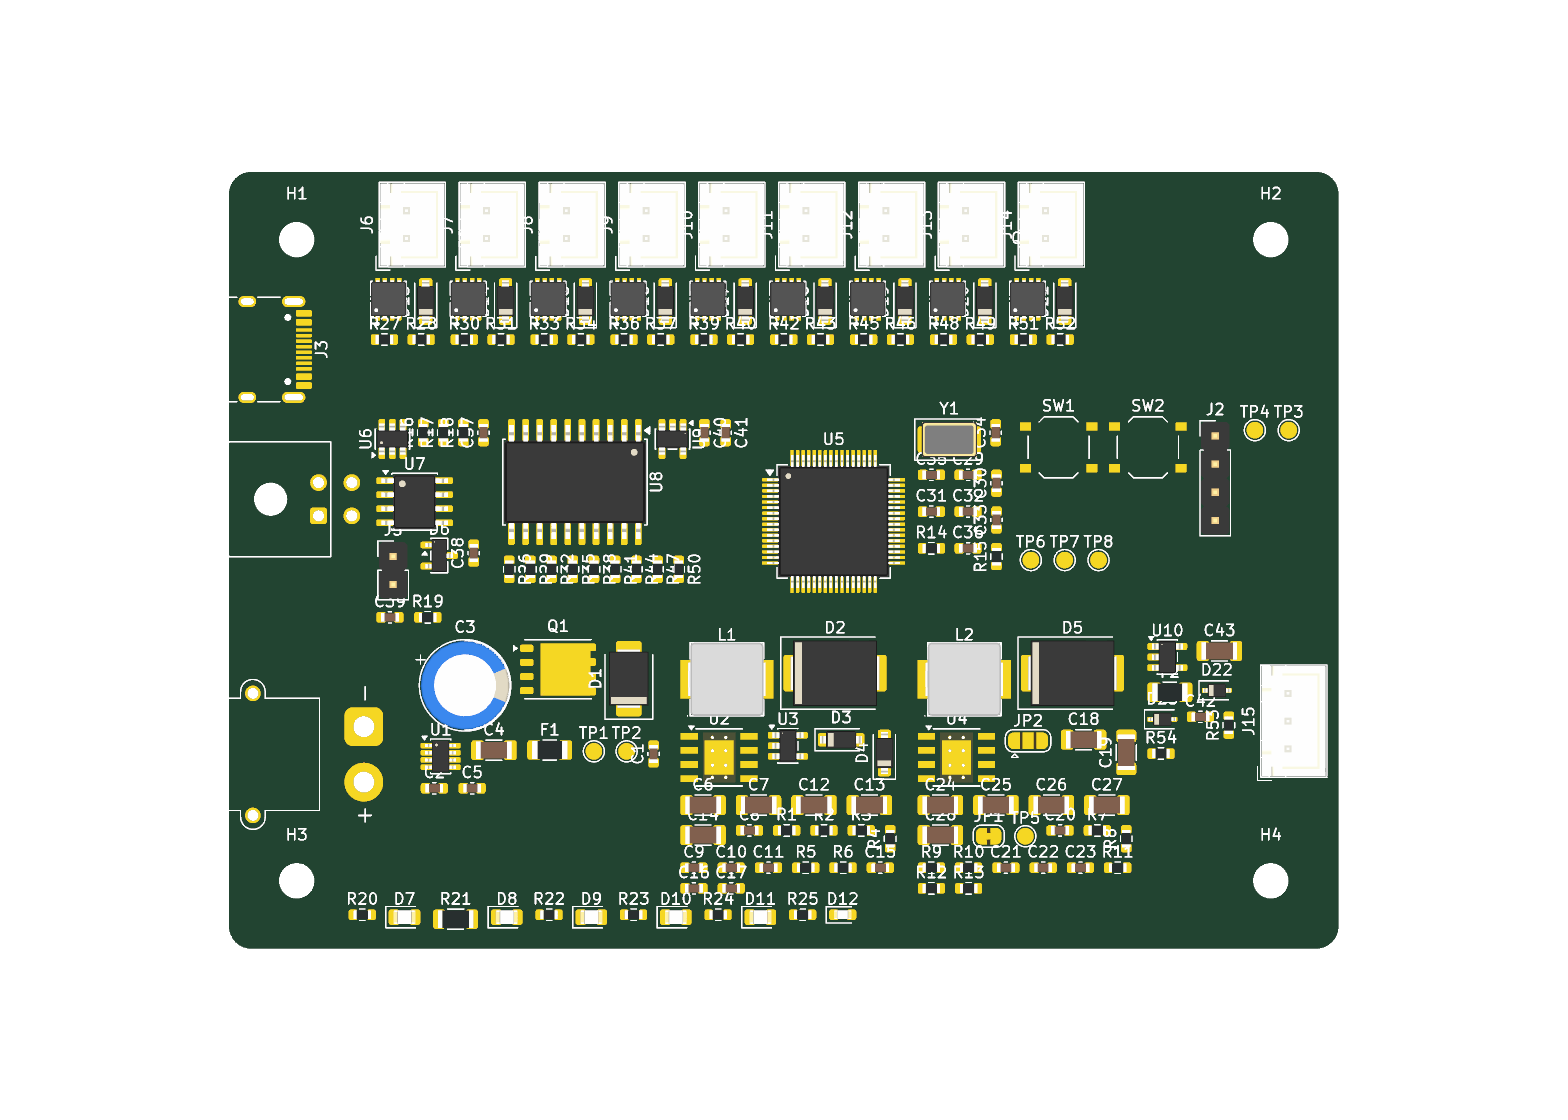
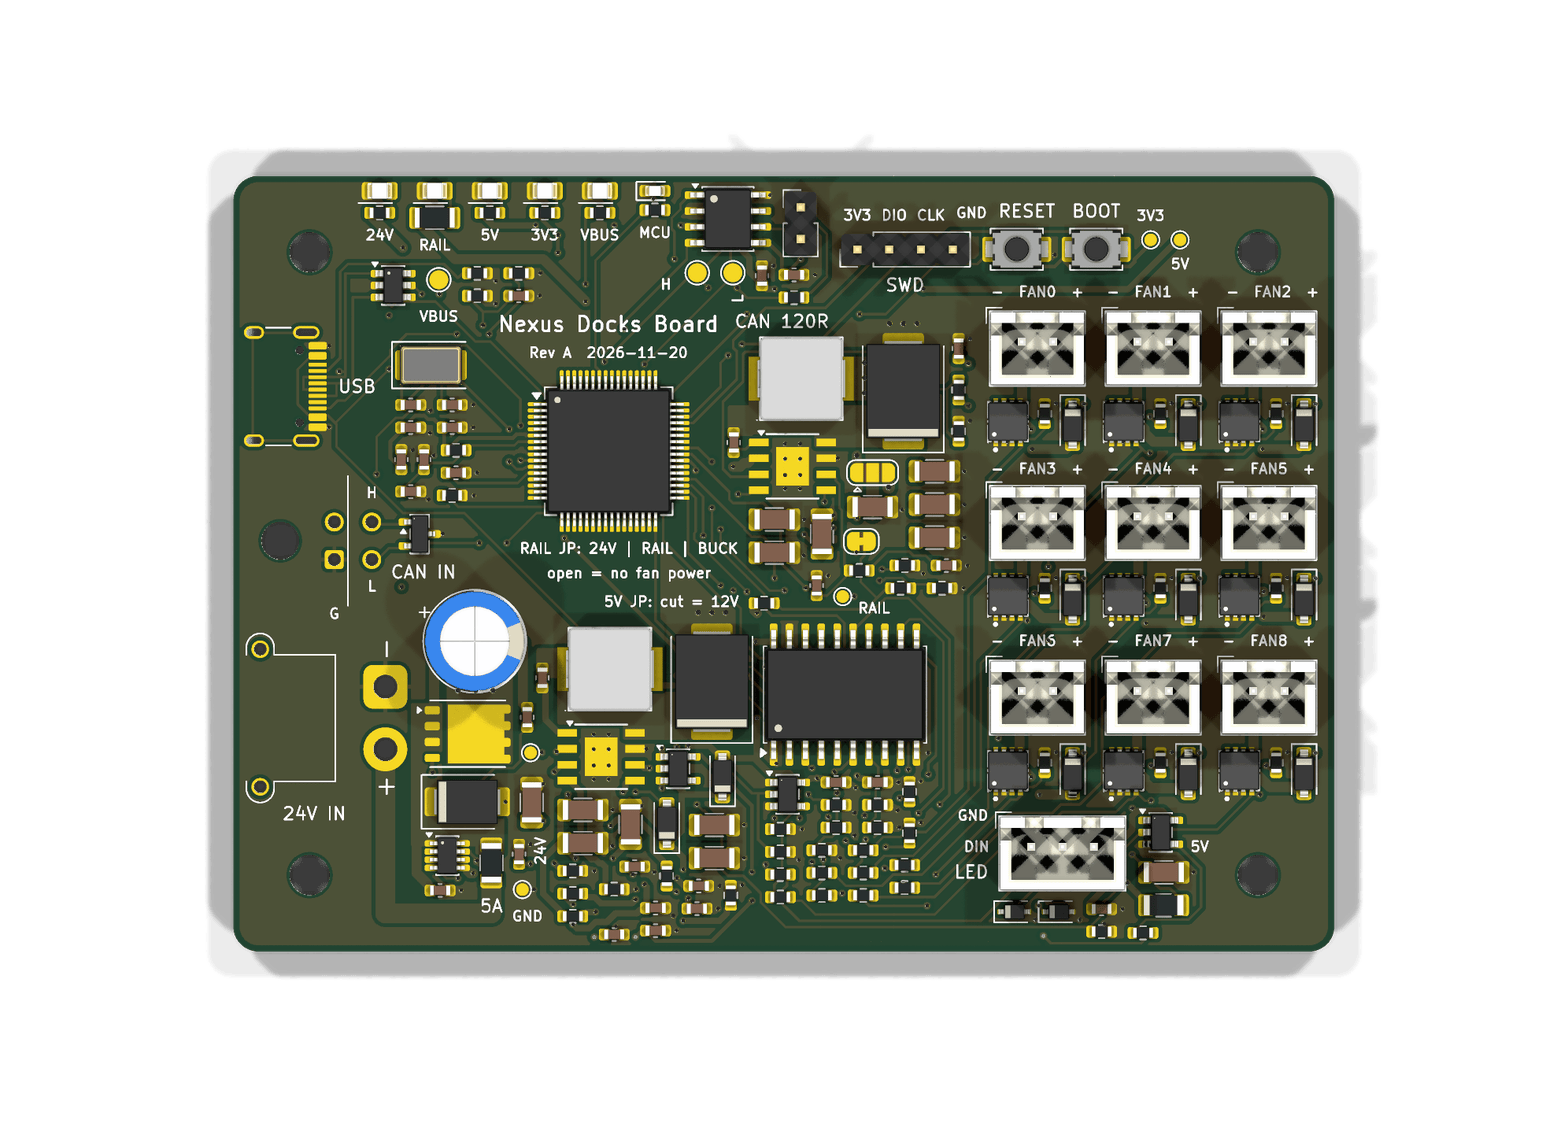
docs: update product page renders and specs
New Rev A renders, design v1.7, board dimensions and mounting, both
boards 4 layers, macro names and power polarity check in the safety
section, project status after F5/F6.

Claude-Session: https://claude.ai/code/session_01VsPyEYuVQYgTC3AocQhtLY

diff --git a/docs/index.html b/docs/index.html
@@ -286,7 +286,7 @@
       <article class="board">
         <figure>
           <img src="img/toolboard-3d-top.png" alt="3D render of the Nexus Tools Board, top side" loading="lazy">
-          <figcaption>Preliminary KiCad render — layout not final</figcaption>
+          <figcaption>KiCad render of the Rev A layout — not built or tested yet</figcaption>
         </figure>
         <div class="body">
           <span class="tag">Tools</span>
@@ -305,7 +305,7 @@
       <article class="board">
         <figure>
           <img src="img/dockboard-3d-top.png" alt="3D render of the Nexus Docks Board, top side" loading="lazy">
-          <figcaption>Preliminary KiCad render — layout not final</figcaption>
+          <figcaption>KiCad render of the Rev A layout — not built or tested yet</figcaption>
         </figure>
         <div class="body">
           <span class="tag">Docks</span>
@@ -334,7 +334,7 @@
       <div class="feat"><div class="ico">02 / SELF-TEST</div><h4>Proven at every start</h4><p>A voltage measurement on the heater rail checks at every startup that the cutoff actually switches.</p></div>
       <div class="feat"><div class="ico">03 / LEDS</div><h4>See what the MOSFET does</h4><p>Each heater channel has an LED that shows what the MOSFET is really doing, not what the software thinks it is doing.</p></div>
       <div class="feat"><div class="ico">04 / CLOGS</div><h4>Clog detection per tool</h4><p>Runout and motion input on every filament port. Use a simple D2F switch, or a motion sensor that notices a clogged nozzle or a slipping extruder.</p></div>
-      <div class="feat"><div class="ico">05 / CONFIG</div><h4>Simple Klipper setup</h4><p>Connect over USB-C or CAN, add a short config file per tool, and Klipper sees eight full hotends. Disable a tool by commenting out one line.</p></div>
+      <div class="feat"><div class="ico">05 / CONFIG</div><h4>Simple Klipper setup</h4><p>Connect over USB-C or CAN, and use the ready-made config and macros for YUDX: one block per tool, and Klipper sees eight full hotends. Disable a tool by commenting out its block.</p></div>
       <div class="feat"><div class="ico">06 / OPEN</div><h4>Fully open source</h4><p>KiCad files, BOM with LCSC numbers, production files for JLCPCB and the Klipper config are all in the repository.</p></div>
     </div>
 
@@ -371,10 +371,11 @@
       <p><strong>Mandatory:</strong></p>
       <ol>
         <li>Klipper's <code>verify_heater</code> active, with sensible <code>max_temp</code> values.</li>
-        <li>Keep the cutoff startup self-test enabled. Do not print if it fails.</li>
-        <li>Run the commissioning macro after every (re)wiring: it checks that each heater heats the correct thermistor.</li>
+        <li>Keep the cutoff startup self-test enabled (<code>NEXUS_SELFTEST</code>, runs at every Klipper start). Do not print if it fails; call <code>NEXUS_PRINT_START</code> in your <code>PRINT_START</code> so a print cannot start without it.</li>
+        <li>Run the commissioning macro <code>NEXUS_COMMISSION</code> after every (re)wiring: it checks that each heater heats the correct thermistor.</li>
         <li>Never print unattended until the whole setup has proven itself over multiple prints.</li>
         <li>One PSU, or PSUs with a common negative.</li>
+        <li>Check the power cable polarity before you plug in: on the board connector (XT60 on the Tools Board, XT30 on the Docks Board) <strong>+ is pin 2</strong>, marked <strong>+</strong> on the silkscreen. Wire your plug to match.</li>
       </ol>
       <p style="margin-bottom:0">The design is provided "as is", without warranty of any kind. <strong>You build and use it entirely at your own risk.</strong> See the disclaimers in the licenses.</p>
     </div>
@@ -383,9 +384,9 @@
 
 <section id="specs" class="alt">
   <div class="wrap">
-    <div class="eyebrow">Draft specifications · design v1.6</div>
+    <div class="eyebrow">Draft specifications · design v1.7</div>
     <h2>Specifications</h2>
-    <p class="sub">Preliminary. Dimensions and mounting holes are not fixed yet.</p>
+    <p class="sub">Preliminary: the Rev A layout is done, but no board has been built or tested yet.</p>
 
     <details open>
       <summary>General</summary>
@@ -393,8 +394,9 @@
         <tr><td>Microcontroller</td><td>STM32G0B1RBT6 (Arm Cortex-M0+, 64 MHz, 128 KB flash)</td></tr>
         <tr><td>Firmware</td><td>Klipper, with Katapult bootloader for updates over USB or CAN</td></tr>
         <tr><td>Host connection</td><td>USB-C (USB 2.0) and/or CAN 1 Mbit/s, USB-CAN bridge supported</td></tr>
-        <tr><td>PCB</td><td>4 layers (Tools Board)</td></tr>
-        <tr><td>Dimensions</td><td><em>To be determined</em></td></tr>
+        <tr><td>PCB</td><td>4 layers, both boards</td></tr>
+        <tr><td>Dimensions</td><td>Tools Board 140 × 90 mm · Docks Board 88 × 62 mm</td></tr>
+        <tr><td>Mounting</td><td>4 × M3 in the corners, non-plated (no ground path through the frame)</td></tr>
       </table></div>
     </details>
     <details>
@@ -472,11 +474,11 @@
     <h2>Project status</h2>
     <p class="sub">Nothing has been ordered or built yet. Follow progress in the <a href="https://github.com/bertenvdb/nexus/blob/main/docs/README.md">documentation</a>.</p>
     <div class="status">
-      <div class="step done"><div class="s">✓ DONE</div><p>Concept architecture (v1.6)</p></div>
-      <div class="step done"><div class="s">✓ DONE</div><p>Component selection, both boards</p></div>
-      <div class="step wip"><div class="s">● IN PROGRESS</div><p>Cost estimate (no JLC quote yet)</p></div>
-      <div class="step wip"><div class="s">● IN PROGRESS</div><p>KiCad implementation: schematics, placement and routing</p></div>
-      <div class="step todo"><div class="s">○ TODO</div><p>Klipper config and safety macros, prototype order, bring-up and testing</p></div>
+      <div class="step done"><div class="s">✓ DONE</div><p>Concept architecture (v1.7) and component selection</p></div>
+      <div class="step done"><div class="s">✓ DONE</div><p>KiCad schematics and layout (Rev A), both boards</p></div>
+      <div class="step wip"><div class="s">● IN PROGRESS</div><p>Production files and JLC quote</p></div>
+      <div class="step wip"><div class="s">● IN PROGRESS</div><p>Klipper config and safety macros (in review)</p></div>
+      <div class="step todo"><div class="s">○ TODO</div><p>Prototype order, bring-up and testing</p></div>
     </div>
   </div>
 </section>
